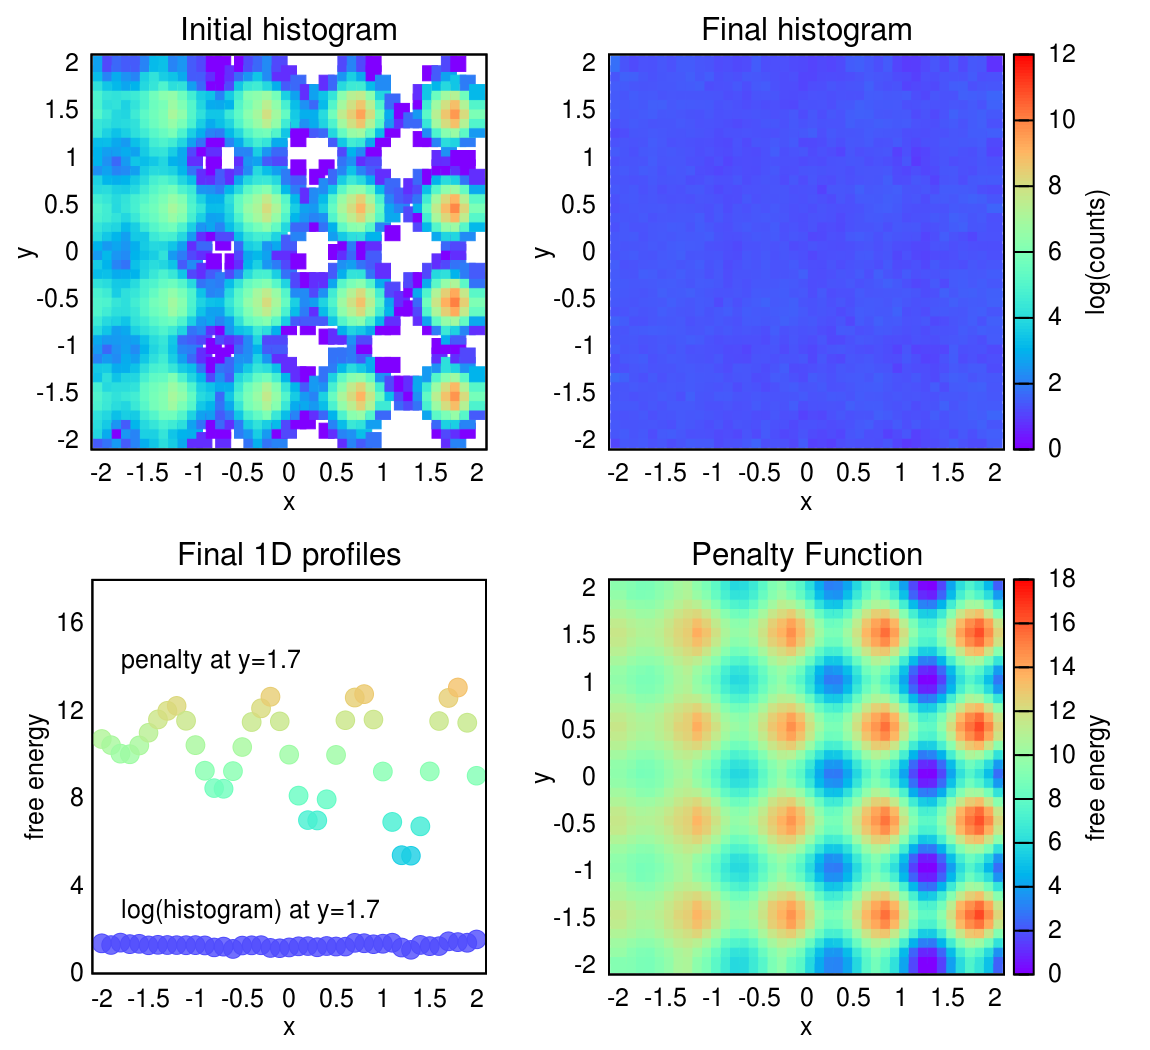
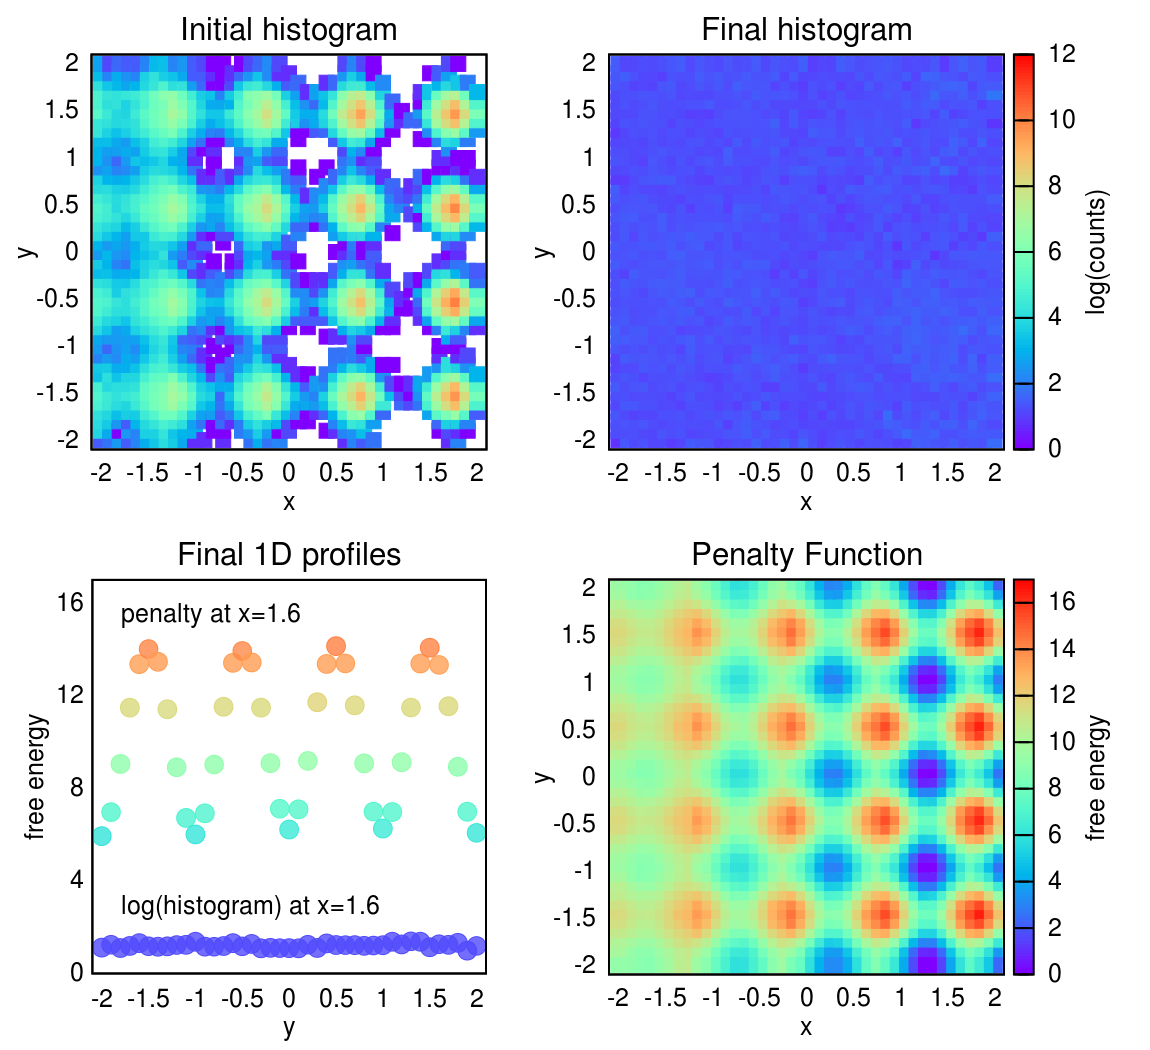
Fixes in Table

diff --git a/include/faunus/auxiliary.h b/include/faunus/auxiliary.h
@@ -481,12 +481,10 @@ namespace Faunus {
             v[i] = (v[i]>=0) ? int( v[i]/_bw[i]+0.5 ) : int( v[i]/_bw[i]-0.5 );
             v[i] = v[i] - _lo[i]/_bw[i];
           }
+          v.resize(2,0);
         }
         Tcoeff& operator()(const Tvec &v) { 
-          if (v.size()==1)
-            return base::operator()(v[0],0);
-          else
-            return base::operator()(v[0],v[1]);
+          return base::operator()(v[0],v[1]);
         } 
         bool isInRange(const Tvec &v) {
           bool b = true;

diff --git a/src/examples/penalty.cpp b/src/examples/penalty.cpp
@@ -63,8 +63,8 @@ int main() {
   }
   auto it_min = histo.min();
   histo.save("histo"+std::to_string(histo.getMap().size()),1./it_min->second);
-  penalty->save("pf_",1,{-2,-2,1.3,1.3});
-  penalty->saveRow("row_",{1.7},1,{-2,-2,1.3,1.3});
+  penalty->save("pf_",1,{1.3,1.3,-2,-2});
+  penalty->saveRow("row_",{1.6},1,{1.3,1.3,-2,-2});
 
   cout << loop.info() + mv.info() + penalty->info() + sys.info();
 
